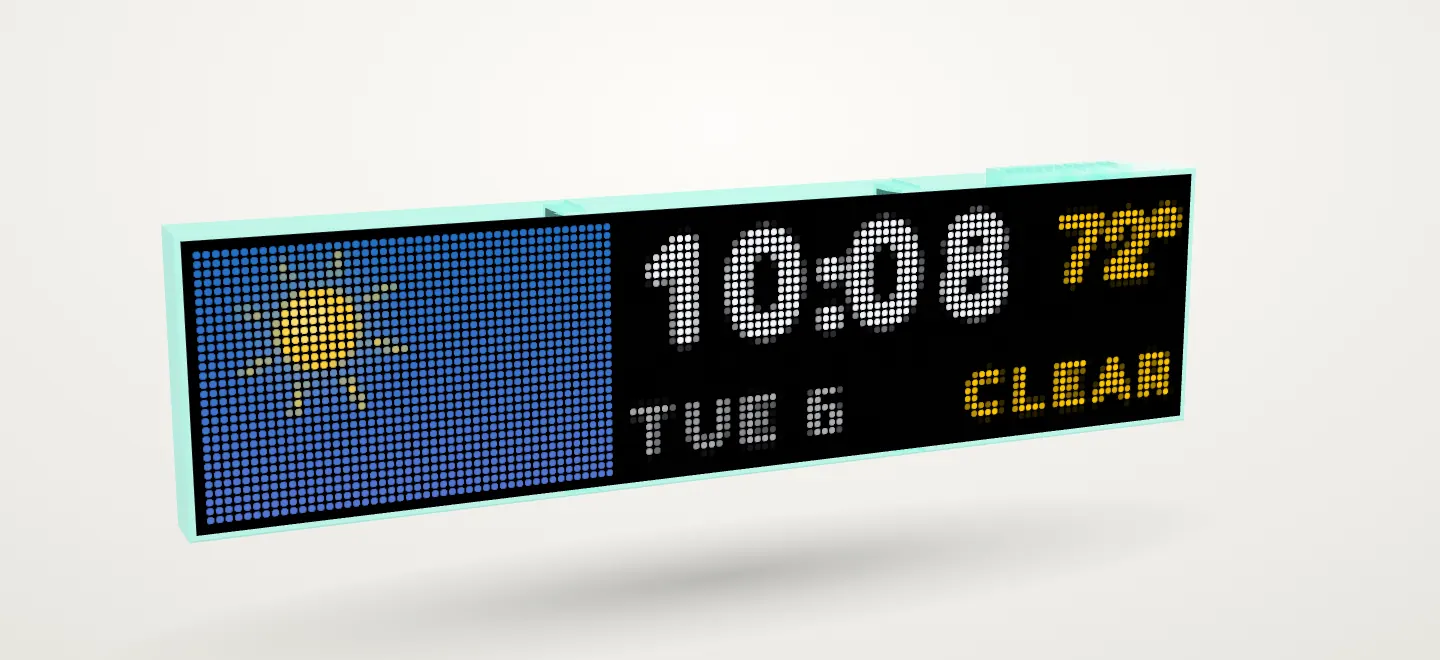
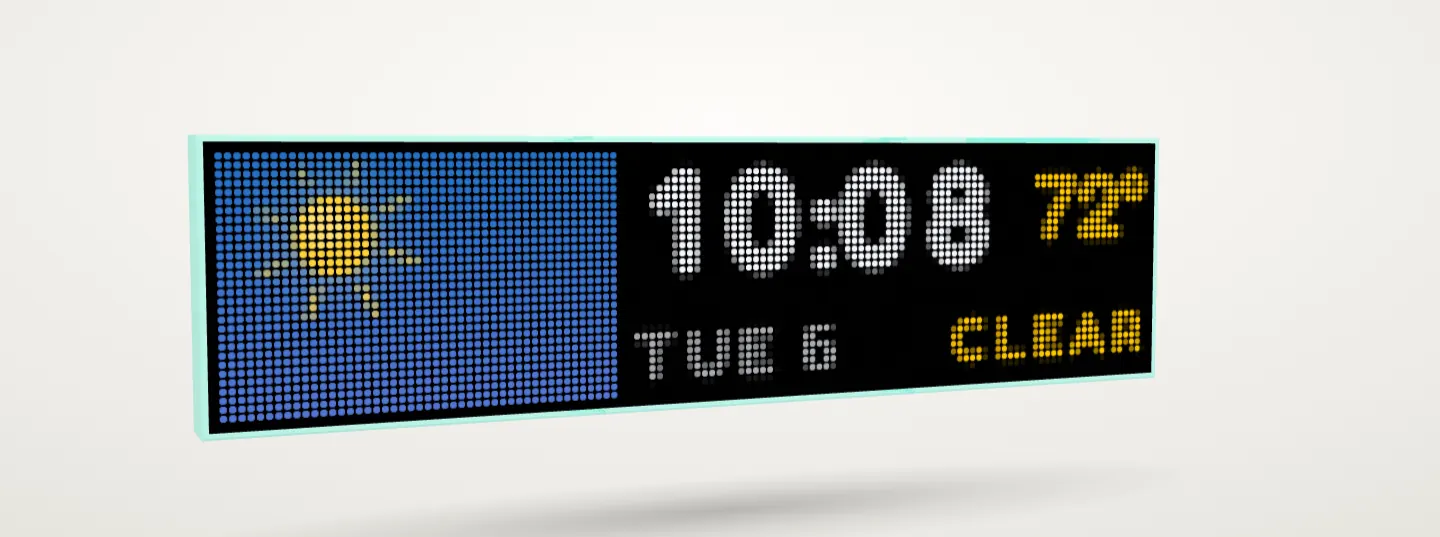
viewer: board fits a cylinder at a 4 degree tilt + hint beside the buttons + fresh posters

Changed region(s): [[0.0938, 0.2384, 0.8438, 0.8343], [0.3125, 0.8045, 0.6562, 1.0]]

diff --git a/index.html b/index.html
@@ -182,9 +182,9 @@ if (/[?&]debug/.test(location.search)) { window.__err = []; addEventListener('er
   <div class="v-stage">
     <picture><source media="(max-width: 700px)" srcset="renders/stills/viewer-poster-phone.webp"><img class="v-poster" src="renders/stills/viewer-poster.webp" alt="mooboard one in Mint Glow, from the front left, showing the time and the weather" loading="lazy" decoding="async" width="1440" height="662"></picture>
     <canvas class="v-canvas" tabindex="0" role="img" aria-label="mooboard one in 3D, playing the song that's on. Drag to turn it, pinch to zoom, double-click for a close-up."></canvas>
-    <p class="v-hint" aria-hidden="true"><svg viewBox="0 0 24 24"><path d="M4 12h16M4 12l4-4M4 12l4 4M20 12l-4-4M20 12l-4 4"/></svg><span>Drag to turn it</span></p>
   </div>
   <div class="v-bar">
+    <p class="v-hint" aria-hidden="true"><svg viewBox="0 0 24 24"><path d="M4 12h16M4 12l4-4M4 12l4 4M20 12l-4-4M20 12l-4 4"/></svg><span>Drag to turn it</span></p>
     <div class="v-acts">
       <button class="v-btn v-spin" type="button" aria-pressed="true"><svg viewBox="0 0 24 24" aria-hidden="true"><path class="v-pause" d="M9 6v12M15 6v12"/><path class="v-play" d="M8 5.5v13l10.5-6.5z"/></svg><span>Pause</span></button>
       <button class="v-btn v-close" type="button" aria-pressed="false"><svg viewBox="0 0 24 24" aria-hidden="true"><circle cx="10.5" cy="10.5" r="6"/><path d="M15 15l5 5"/><path d="M8 10.5h5"/><path class="zv" d="M10.5 8v5"/></svg><span>See up close</span></button>

diff --git a/css/site.css b/css/site.css
@@ -254,7 +254,8 @@ h1, h2 { font-family: var(--display); font-weight: 600; letter-spacing: -.01em; 
 .v-canvas:focus-visible { outline-offset: -3px; }
 .viewer.v-live .v-canvas { opacity: 1; }
 .viewer.v-live .v-poster { opacity: 0; }
-.v-hint { position: absolute; left: 50%; bottom: 4%; transform: translateX(-50%); margin: 0; display: flex; align-items: center; gap: 8px;
+/* the hint sits in the bar beside the buttons + outside the stage so the board never passes over it */
+.v-hint { margin: 0; display: flex; align-items: center; gap: 8px;
   font-weight: 800; font-size: 14px; color: rgba(14, 26, 34, .55); pointer-events: none; opacity: 0; transition: opacity .6s var(--ease); white-space: nowrap; }
 .v-hint svg { width: 20px; height: 20px; fill: none; stroke: currentColor; stroke-width: 2.2; stroke-linecap: round; stroke-linejoin: round; }
 .viewer.v-live .v-hint { opacity: 1; }

diff --git a/tools/viewer-poster.py b/tools/viewer-poster.py
@@ -28,7 +28,7 @@ def shoot(url, w, h, dpr, mobile, dst):
     try:
         cdp = CDP(ws)
         pg = Page(cdp, dict(width=w, height=h, dpr=dpr, mobile=mobile, cpu=1, net=None))
-        pg.call('Network.setBlockedURLs', {'urls': ['*open-meteo*']})
+        pg.call('Network.setBlockedURLs', {'urls': ['*open-meteo*', '*api.met.no*']})
         pg.goto(url)
         cdp.pump(2)
         pg.js('try { localStorage.removeItem("moo-wx") } catch (e) {}')
